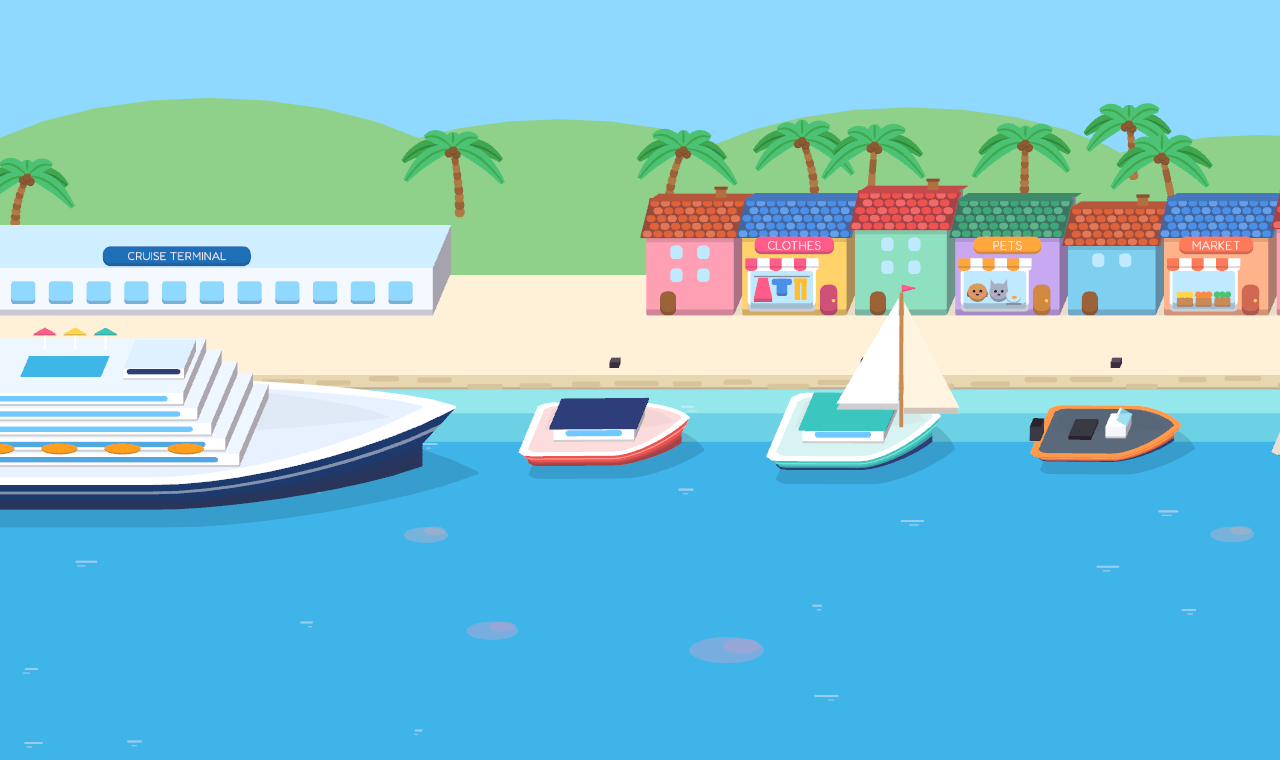
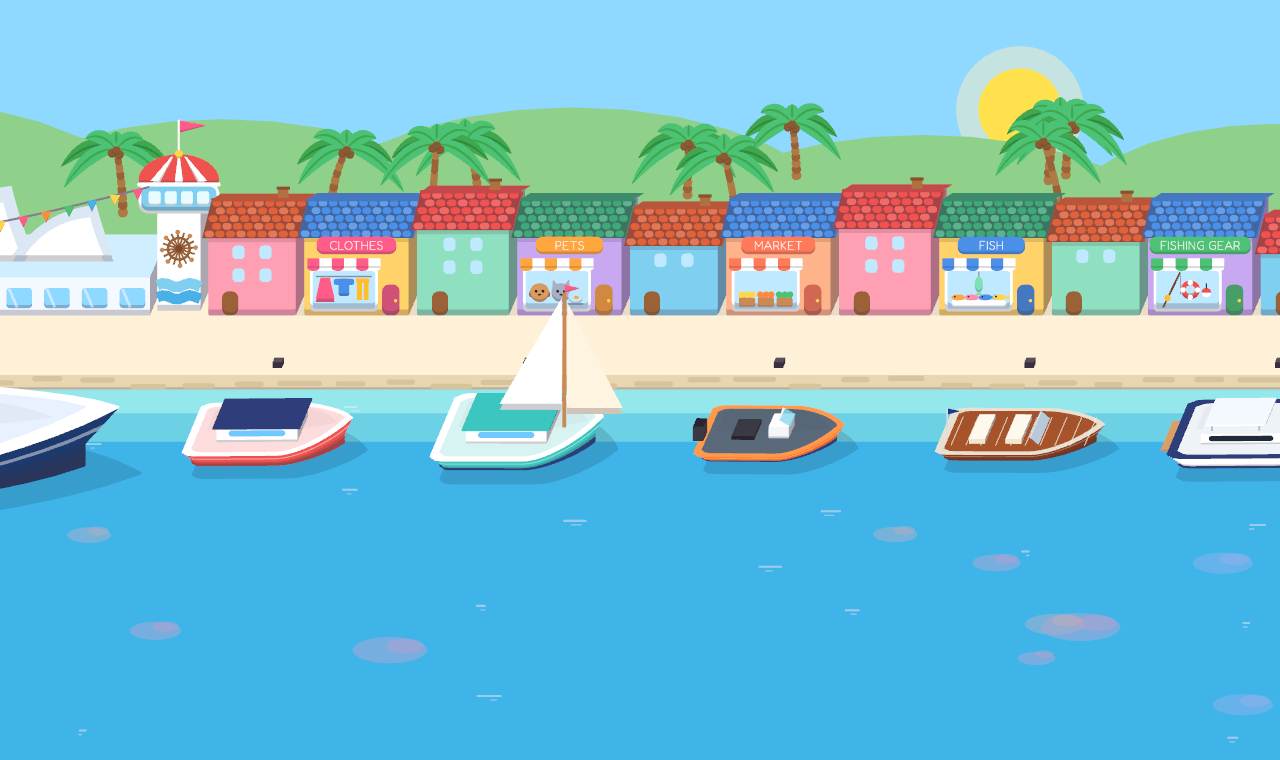
The title screen up top, the Candy Coast, and support for cruises, quests and profiles
The home page opens on the title screen with its Play button, has a Candy Coast
section (Gumdrop Bay, Cocoa Cove and the golden cookie dive) and fresh harbour and
Coral Bay pictures; the beach is gone. Support explains the cruise menu, the Candy
Coast, the new quests and resetting a profile.

Claude-Session: https://claude.ai/code/session_012u9AU8iQHtj4AcRh7AAqNS

diff --git a/index.html b/index.html
@@ -4,7 +4,7 @@
   <meta charset="utf-8">
   <meta name="viewport" content="width=device-width, initial-scale=1">
   <title>Little Harbor</title>
-  <meta name="description" content="Little Harbor is a cosy, toy-like harbour game: decorate boats, dress up your crew, adopt pets, sail, fish and play at the beach.">
+  <meta name="description" content="Little Harbor is a cosy, toy-like harbour game: decorate boats, dress up your crew, adopt pets, sail, fish and cruise to the islands and the Candy Coast.">
   <link rel="icon" href="favicon.ico">
   <link rel="stylesheet" href="style.css">
 </head>
@@ -27,18 +27,19 @@
   </header>
 
   <main>
-    <img class="hero" src="images/harbour.png" alt="The harbour seen from above: colourful houses and shops along the quay, and boats in their berths.">
+    <img class="hero" src="images/title.png" alt="The Little Harbor title screen: the crew and a puppy on the jetty in front of the harbour, with a big Play button.">
 
     <h2>About the game</h2>
     <p>
       Little Harbor is a cosy, toy-like harbour game. Decorate houseboats, build your own boats, dress
       up your crew and adopt cute pets. Sail out to sea to fish, trade your catch in sunny, jungle and
-      snowy ports, buy houses to furnish, and spend lazy days at the beach. Then buy the cruise ship
-      and sail across the ocean to the islands, where people have quests for you. There's no score
+      snowy ports and buy houses to furnish. Then buy the cruise ship and sail across the ocean to the
+      islands and the Candy Coast, where people have quests for you. There's no score
       and no rush, just tapping, dragging and playing pretend.
     </p>
 
     <div class="shots">
+      <img src="images/harbour.png" alt="The harbour: colourful houses and shops along the quay, and boats in their berths.">
       <img src="images/boat.png" alt="Aboard a houseboat, with furniture to drag in from the tray.">
       <img src="images/fish.png" alt="Out at sea, towing a trawl along the seabed.">
       <img src="images/pets.png" alt="The pet shop: choosing a puppy's fur, markings and collar.">
@@ -61,6 +62,20 @@
       <img src="images/lava.png" alt="The giant lava fish swimming deep below the boat by Ember Isle.">
     </div>
 
+    <h2>The Candy Coast</h2>
+    <p>
+      Save up and the Ocean Dream will take you on to the sweetest place on the globe: Gumdrop Bay
+      with its candy houses, Lollipop Lagoon, Sundae Shores and Cocoa Cove, where the gingerbread
+      houses stand under chocolate mountains. Catch the gummy sharks, land Big Scoop, and dive for the
+      baker's golden cookies among the caramel jellyfish.
+    </p>
+
+    <div class="shots">
+      <img src="images/candy.png" alt="Gumdrop Bay from above: candy-coloured houses with lollipops on the hills, and boats along the pink sugar beach.">
+      <img src="images/cocoa.png" alt="Cocoa Cove: gingerbread houses under a chocolate mountain, giant cookies and the baker with a quest.">
+      <img src="images/cookies.png" alt="Diving for golden cookies under the boat, among caramel jellyfish.">
+    </div>
+
     <h2>What you can do</h2>
     <ul>
       <li>Make every boat your own with furniture and decor that react when you tap them.</li>
@@ -69,10 +84,10 @@
       <li>Adopt puppies, kittens, bunnies, hamsters, budgies and turtles.</li>
       <li>Fish with a rod, a net, a trawl or a diver, and sell your catch.</li>
       <li>Visit Sunny Sands, Parrot Cove, Snowpeak Fjord and Big Bay City.</li>
-      <li>Buy the cruise ship and cruise across the ocean to the islands.</li>
-      <li>Help the people with a "!" over their head: catch a giant squid, piranhas, a giant lava fish and a sea snake.</li>
-      <li>Buy a house or a beach hut and furnish it like a doll's house.</li>
-      <li>Play at the beach, by day, at sunset or under the stars.</li>
+      <li>Buy the cruise ship and cruise across the ocean to the islands and the Candy Coast.</li>
+      <li>Help the people with a "!" over their head: catch a giant squid, piranhas, a giant lava fish, a sea snake, gummy sharks and Big Scoop, and dive for golden cookies.</li>
+      <li>Buy a house and furnish it like a doll's house.</li>
+      <li>Play by day, at sunset or under the stars, with up to four profiles for the whole family.</li>
     </ul>
 
     <p class="note">No ads, no in-app purchases, and no personal data collected. See the <a href="privacy.html">privacy policy</a>.</p>

diff --git a/support.html b/support.html
@@ -39,8 +39,8 @@
     <h3>How do I play?</h3>
     <p>
       Tap a boat on the harbour to go aboard. Drag furniture, decor, food and people out of the tray
-      at the bottom, and tap things to see what they do. Tap the shops, the boatyard and the beach to
-      go in. Tap "Set Sail!" aboard a boat to head out to sea and go fishing.
+      at the bottom, and tap things to see what they do. Tap the shops and the boatyard to go in,
+      and a house with a coin sign to buy it. Tap "Set Sail!" aboard a boat to head out to sea and go fishing.
     </p>
 
     <h3>How do I visit the other ports?</h3>
@@ -52,16 +52,25 @@
 
     <h3>How do I get to the islands?</h3>
     <p>
-      Buy the Ocean Dream, the big cruise ship in Big Bay City. Sail past it and tap
-      "Cruise to the islands" to cruise across the ocean to Coral Bay. On the islands you sail the
-      island boats moored in Coral Bay, and from there you can cruise home again, to Big Bay City
-      or straight to your own harbour.
+      Buy the Ocean Dream, the big cruise ship in Big Bay City. Sail past it, tap "Go on a cruise"
+      and pick Coral Bay to cruise across the ocean. On the islands you sail the island boats moored
+      in Coral Bay, and from there you can cruise home again, to Big Bay City or straight to your
+      own harbour.
+    </p>
+
+    <h3>How do I get to the Candy Coast?</h3>
+    <p>
+      The Candy Coast is the Ocean Dream's other destination. The first time, it costs 4000 coins
+      (in-game coins, earned by playing): pick it on the cruise menu and say yes. After that it's
+      free to cruise there whenever you like. You arrive in Gumdrop Bay, with its own boats to sail
+      to Lollipop Lagoon, Sundae Shores and Cocoa Cove.
     </p>
 
     <h3>What are the quests?</h3>
     <p>
       Some people have a "!" over their head: tap them to hear their story, and say you'll help
-      to catch a giant squid, a school of piranhas, a giant lava fish or a huge sea snake. The "!"
+      to catch a giant squid, a school of piranhas, a giant lava fish, a huge sea snake, the gummy
+      sharks or Big Scoop, or to dive for the baker's golden cookies. The "!"
       is yellow while there's something new to do, and grey while you're on a quest or once you've
       done it. A quest pays coins the first time; after that you can play it again just for fun.
     </p>
@@ -91,8 +100,9 @@
 
     <h3>How do I start over?</h3>
     <p>
-      Tap the cog at the top of the screen and choose "Start over...". The game asks you to confirm,
-      since this removes all your boats, friends and coins.
+      Tap the cog at the top of the screen, choose "Profile" and tap "Reset" on the profile you want
+      to start over. The game asks you to confirm, since this removes all that profile's boats,
+      friends and coins. The other profiles are kept.
     </p>
 
     <h3>Can I turn off the music or the sounds?</h3>
